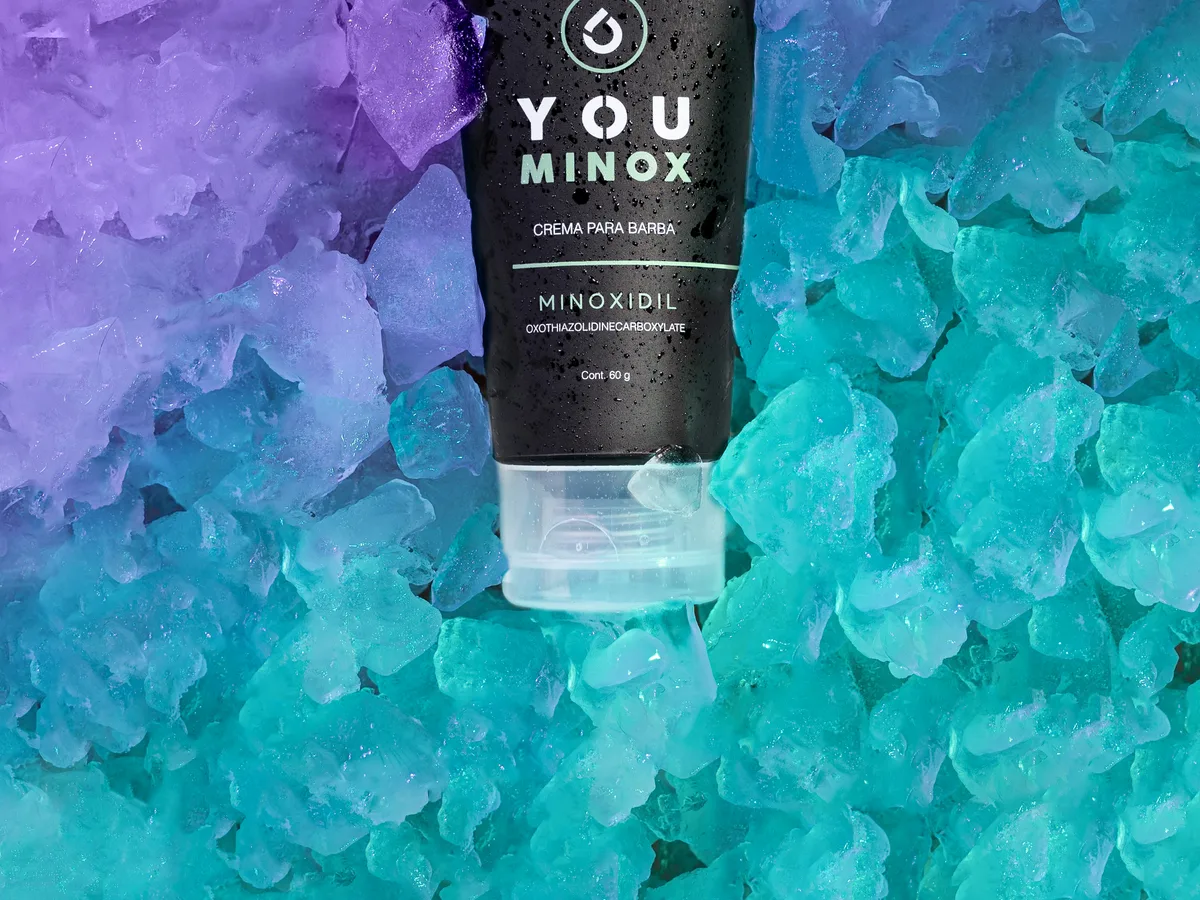
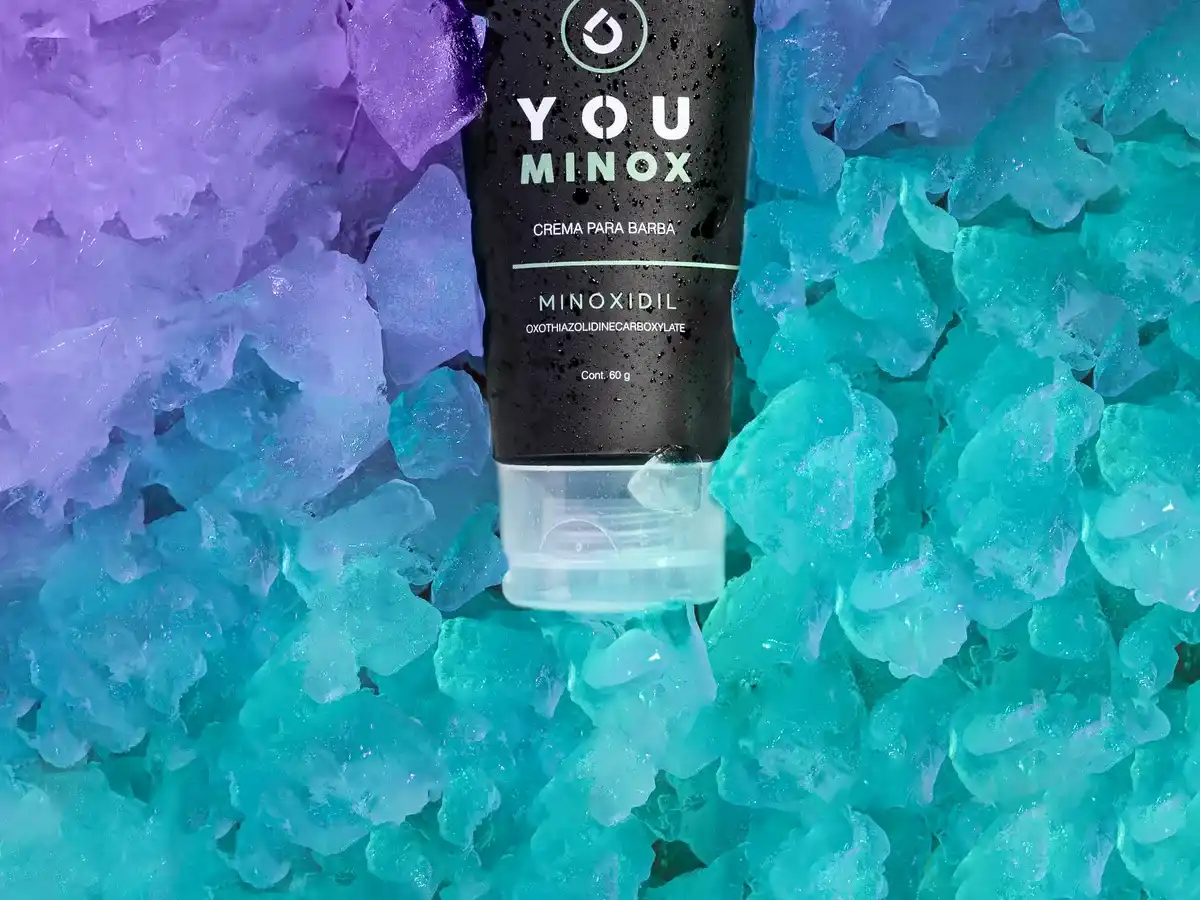
fix(amazon,images): remove ratings/reviews/prices from Amazon cards and optimize images <100KB

diff --git a/src/lib/amazon.ts b/src/lib/amazon.ts
@@ -9,8 +9,6 @@ export interface AmazonProductRecommendation {
   title: string;
   subtitle: string;
   features: string[];
-  rating: string;
-  reviewsCount: string;
   categoryType:
     | "microneedling"
     | "shampoo"
@@ -115,8 +113,6 @@ export const CATALOG = {
       "Mango ergonómico antideslizante con estuche protector de viaje y sanitización",
       "Multiplica la absorción y activación enzimática (esperar 12–24 h antes del Minoxidil)",
     ],
-    rating: "4.6",
-    reviewsCount: "+14,200",
     categoryType: "microneedling",
     queryUS: "0.5mm titanium derma roller beard hair growth men kit",
     queryES: "derma roller 0.5mm titanio barba pelo hombre",
@@ -134,8 +130,6 @@ export const CATALOG = {
       "Aumenta la microcirculación sanguínea y la enzima sulfotransferasa hasta 3 veces más",
       "La entrada vertical a 90° evita micro-desgarros epidérmicos frente a rodillos convencionales",
     ],
-    rating: "4.7",
-    reviewsCount: "+6,800",
     categoryType: "microneedling",
     queryUS: "adjustable titanium microneedle derma stamp hair beard growth men",
     queryES: "derma stamp ajustable titanio capilar barba hombre",
@@ -153,8 +147,6 @@ export const CATALOG = {
       "Forma parte de la 'Tríada Capilar' usándolo 2 a 3 veces por semana junto al Minoxidil",
       "Limpia profundamente el ostium folicular para que el tratamiento tópico penetre sin barreras",
     ],
-    rating: "4.7",
-    reviewsCount: "+92,400",
     categoryType: "shampoo",
     asinUS: "B00AINMFAC",
     queryUS: "Nizoral Anti-Dandruff Shampoo 1% Ketoconazole",
@@ -173,8 +165,6 @@ export const CATALOG = {
       "100% libre de sulfatos agresivos: cuida la barrera lipídica antes de aplicar tu Minoxidil",
       "Aporta volumen estructural y grosor inmediato en entradas y coronilla",
     ],
-    rating: "4.6",
-    reviewsCount: "+19,500",
     categoryType: "shampoo",
     queryUS: "mens biotin saw palmetto dht blocker thickening shampoo sulfate free",
     queryES: "champu biotina saw palmetto anticaida hombre sin sulfatos",
@@ -192,8 +182,6 @@ export const CATALOG = {
       "4 minutos de masaje mecánico diario aumentan el calibre folicular y relajan la tensión",
       "Diseño impermeable de una sola pieza antibacteriana ideal para la ducha",
     ],
-    rating: "4.8",
-    reviewsCount: "+48,000",
     categoryType: "shampoo",
     queryUS: "mens silicone scalp massager shampoo brush hair growth",
     queryES: "masajeador cuero cabelludo silicona cepillo champu hombre",
@@ -211,8 +199,6 @@ export const CATALOG = {
       "Permite que el Minoxidil llegue directo a la piel sin desperdiciarse en vello largo",
       "Batería de iones de litio de larga duración y cabezales lavables bajo el grifo",
     ],
-    rating: "4.7",
-    reviewsCount: "+84,000",
     categoryType: "beard",
     queryUS: "Philips Norelco Multigroom beard trimmer men kit",
     queryES: "Philips recortadora barba precision hombre",
@@ -230,8 +216,6 @@ export const CATALOG = {
       "Peine de madera de doble dentado antiestático que no quiebra los nuevos folículos en transición",
       "Estimula el flujo sanguíneo en mejillas, bigote y línea mandibular",
     ],
-    rating: "4.7",
-    reviewsCount: "+21,300",
     categoryType: "beard",
     queryUS: "100% boar bristle beard brush and wooden comb set men",
     queryES: "cepillo barba cerdas jabali peine madera hombre",
@@ -249,8 +233,6 @@ export const CATALOG = {
       "Previene la rotura de la fibra de queratina y aporta brillo saludable sin alcohol",
       "Incluye gotero de vidrio y aplicador para barba, cuero cabelludo y cejas",
     ],
-    rating: "4.6",
-    reviewsCount: "+34,700",
     categoryType: "beard",
     queryUS: "rosemary mint jamaican black castor oil hair beard growth men",
     queryES: "aceite romero y ricino negro crecimiento cabello barba hombre",
@@ -268,8 +250,6 @@ export const CATALOG = {
       "Extracto estandarizado de Saw Palmetto y Cola de Caballo (Sílice) para mayor densidad",
       "Fórmula masculina certificada GMP para acompañar tu ciclo de 6 meses de Minoxidil",
     ],
-    rating: "4.6",
-    reviewsCount: "+15,900",
     categoryType: "supplement",
     queryUS: "mens hair beard growth vitamins biotin 10000 mcg saw palmetto zinc",
     queryES: "vitaminas biotina 10000 mcg saw palmetto zinc pelo barba hombre",
@@ -287,8 +267,6 @@ export const CATALOG = {
       "Textura ultraligera libre de aceites (Oil-Free) con acabado mate invisible",
       "Sin fragancias ni parabenos: 100% segura y compatible con el ciclo folicular facial",
     ],
-    rating: "4.8",
-    reviewsCount: "+67,500",
     categoryType: "skincare",
     queryUS: "mens ceramide hyaluronic acid facial moisturizer oil free non comedogenic",
     queryES: "crema hidratante facial ceramidas acido hialuronico hombre",
@@ -306,8 +284,6 @@ export const CATALOG = {
       "Escala graduada transparente en mililitros para medir la dosis clínica exacta de 1 mL",
       "Evita manchar los dedos y masajea simultáneamente las entradas y la coronilla",
     ],
-    rating: "4.6",
-    reviewsCount: "+5,400",
     categoryType: "applicator",
     queryUS: "scalp applicator comb graduated 1ml minoxidil hair oil applicator men",
     queryES: "aplicador cuero cabelludo peine dosificador 1ml locion capilar",
@@ -325,8 +301,6 @@ export const CATALOG = {
       "A diferencia del algodón poroso, no reseca la piel ni absorbe la hidratación facial",
       "Cierre tipo sobre lavable a máquina en tonos masculinos elegantes",
     ],
-    rating: "4.7",
-    reviewsCount: "+41,000",
     categoryType: "applicator",
     queryUS: "mens cooling satin pillowcase 2 pack dark gray hair protection",
     queryES: "funda almohada saten gris oscuro pack 2 cuidado cabello barba",
@@ -344,8 +318,6 @@ export const CATALOG = {
       "Presentación en cajas multipack de 60 ml por frasco con gotero medidor de 1 mL",
       "Ideal para cuero cabelludo; si sufres resequedad facial, compleméntalo con hidratación",
     ],
-    rating: "4.5",
-    reviewsCount: "+12,000",
     categoryType: "minoxidil",
     queryUS: "Kirkland Signature Minoxidil 5% Extra Strength Men Hair Regrowth",
     queryES: "Kirkland Minoxidil 5% solucion capilar hombre",
@@ -363,8 +335,6 @@ export const CATALOG = {
       "Secado rápido en cuero cabelludo sin dejar película aceitosa pesada",
       "Disponible en packs de 3 meses con envío Prime en Amazon",
     ],
-    rating: "4.6",
-    reviewsCount: "+28,000",
     categoryType: "minoxidil",
     queryUS: "Mens Rogaine 5% Minoxidil Unscented Foam Hair Regrowth",
     queryES: "Regaine Rogaine 5% minoxidil espuma capilar hombre",
@@ -382,8 +352,6 @@ export const CATALOG = {
       "Opciones Low-Alcohol (Foligain) y goteros minimalistas (Hims)",
       "Verifica disponibilidad y envío internacional directo en Amazon",
     ],
-    rating: "4.5",
-    reviewsCount: "+9,500",
     categoryType: "minoxidil",
     queryUS: "Hims Foligain 5% Minoxidil Topical Hair Regrowth Men",
     queryES: "Foligain Minoxidil 5% locion capilar hombre",

diff --git a/src/components/AmazonAffiliateBox.tsx b/src/components/AmazonAffiliateBox.tsx
@@ -136,27 +136,6 @@ export default function AmazonAffiliateBox({
           </div>
         </div>
 
-        <div className="flex flex-col sm:flex-row sm:items-center justify-between gap-5">
-          <div className="flex items-start gap-4">
-            <CategoryIcon type={primaryProduct.categoryType} />
-            <div>
-              <h3 className="text-base sm:text-lg font-extrabold text-slate-900 leading-snug">
-                {primaryProduct.title}
-              </h3>
-              <p className="mt-1 text-xs sm:text-sm text-slate-700 leading-relaxed">
-                {primaryProduct.subtitle}
-              </p>
-              <div className="mt-2 flex flex-wrap items-center gap-3 text-xs">
-                <span className="font-bold text-amber-600">
-                  ★★★★★ {primaryProduct.rating}/5
-                </span>
-                <span className="text-slate-500 font-medium">
-                  ({primaryProduct.reviewsCount} reseñas)
-                </span>
-                <span className="inline-flex items-center gap-1 font-bold text-emerald-700">
-                  ✓ Envío Oficial en {storeName}
-                </span>
-              </div>
             </div>
           </div>
 
@@ -207,26 +186,6 @@ export default function AmazonAffiliateBox({
           </div>
         </div>
 
-        <div className="space-y-3.5">
-          {products.slice(0, 2).map((prod) => {
-            const url = buildAmazonUrl(prod, region);
-            return (
-              <div
-                key={prod.id}
-                className="rounded-xl border border-amber-200/80 bg-white p-3.5 shadow-2xs"
-              >
-                <span className="inline-block rounded-md bg-amber-100 px-2 py-0.5 text-[10px] font-extrabold text-amber-900">
-                  {prod.badge}
-                </span>
-                <h4 className="mt-1.5 text-xs font-extrabold text-slate-900 leading-snug">
-                  {prod.title}
-                </h4>
-                <div className="mt-1 flex items-center gap-2 text-[11px]">
-                  <span className="font-bold text-amber-600">
-                    ★★★★★ {prod.rating}
-                  </span>
-                  <span className="text-slate-400">({prod.reviewsCount})</span>
-                </div>
                 <a
                   href={url}
                   target="_blank"
@@ -343,15 +302,6 @@ export default function AmazonAffiliateBox({
                 </ul>
               </div>
 
-              <div className="mt-5 pt-3 border-t border-slate-100">
-                <div className="mb-2.5 flex items-center justify-between text-xs">
-                  <span className="font-extrabold text-amber-600">
-                    ★★★★★ {product.rating}/5 ({product.reviewsCount})
-                  </span>
-                  <span className="text-[11px] font-semibold text-emerald-700">
-                    ✓ {storeName}
-                  </span>
-                </div>
 
                 <a
                   href={url}
